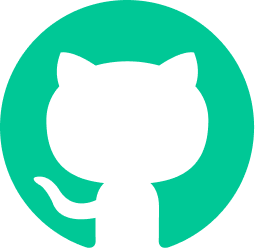
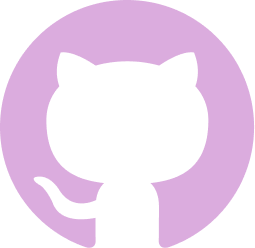
some style/colour changes

diff --git a/index.html b/index.html
@@ -37,6 +37,38 @@
 				</div>
 			</div>
 			<div class="main" id="top">
+				<div class="float-shape" id="fs-1">
+					<svg
+						xmlns="http://www.w3.org/2000/svg"
+						xmlns:xlink="http://www.w3.org/1999/xlink"
+						id="visual"
+						version="1.1"
+						viewBox="13.83 23.48 172.33 153.04"
+					>
+						<g transform="translate(98.9229104532285 98.80251492492093)">
+							<path
+								id="shape-5"
+								d="M35.8 -61.1C45.9 -56.1 53.2 -45.6 62 -34.4C70.7 -23.3 80.9 -11.7 85.1 2.4C89.2 16.5 87.5 33 79.3 45.1C71.2 57.2 56.6 65 42.3 70.6C28 76.2 14 79.6 1.8 76.6C-10.5 73.5 -21 64 -35.4 58.5C-49.9 53 -68.2 51.5 -77.5 42.4C-86.7 33.3 -86.9 16.7 -81.5 3.1C-76 -10.4 -65.1 -20.8 -58.8 -35.1C-52.6 -49.4 -51 -67.6 -42 -73.2C-33 -78.8 -16.5 -71.9 -1.8 -68.7C12.8 -65.6 25.7 -66.1 35.8 -61.1"
+							></path>
+						</g>
+					</svg>
+				</div>
+				<div onclick="toggleColour()" class="float-shape" id="fs-2">
+					<svg
+						xmlns="http://www.w3.org/2000/svg"
+						xmlns:xlink="http://www.w3.org/1999/xlink"
+						id="visual"
+						version="1.1"
+						viewBox="19.05 20.94 161.89 158.12"
+					>
+						<g transform="translate(107.82649031225117 110.21635652361721)">
+							<path
+								id="shape-3"
+								d="M44.4 -79.6C55.8 -70.3 62.1 -54.9 66.7 -40.6C71.3 -26.3 74.1 -13.2 72.8 -0.8C71.5 11.7 66.1 23.3 58.5 32.4C50.8 41.4 41 47.8 30.9 54.1C20.8 60.4 10.4 66.7 -1 68.4C-12.3 70 -24.7 67.1 -38.1 62.6C-51.5 58.2 -66 52.4 -75 41.7C-84 31 -87.5 15.5 -88.5 -0.6C-89.5 -16.7 -88.1 -33.3 -78.2 -42.6C-68.4 -51.8 -50.2 -53.6 -35.8 -61.1C-21.3 -68.6 -10.7 -81.8 2.9 -86.9C16.5 -91.9 33 -88.8 44.4 -79.6"
+							></path>
+						</g>
+					</svg>
+				</div>
 				<div class="intro">
 					<div class="display-container">
 						<svg
@@ -64,12 +96,11 @@
 					<div class="intro-text">
 						<h1>Hi there!</h1>
 						<p>
-							I'm Rosie, a web developer<br />based in Bristol, UK.<br /><br />
-							Find out more about me <a href="./about.html">here</a>, <br />or
-
+							I'm Rosie, a web developer<br />based in Bristol, UK. <br /><br />
 							<a href="#project-1"
-								><button class="primary-btn">check out my work</button></a
-							>
+								><button class="primary-btn">check out my work <span id="arrow">➜</span></button></a
+							><br /><h4>or find
+							out more about me <a href="./about.html">here</a>. </h4>
 						</p>
 					</div>
 				</div>
@@ -193,5 +224,6 @@
 				</div>
 			</div>
 		</body>
+		<footer></footer>
 	</html>
 </DOCTYPE!>

diff --git a/styles.css b/styles.css
@@ -3,15 +3,15 @@
 :root {
 	--orange: #fc841c;
 	--violet: #7061f0;
-	--pink: #ff007b;
-	--lilac: #dbacde;
+	--pink: #ff8dbc;
+	--lilac: #d7acde;
 	--palelilac: #f9dbf7;
 	--green: #00c896;
 	--yellow: #f3cf31;
 	--white: #fff6f6;
-	--navy: #413a7e;
+	--navy: #442c51;
+	--grey: #2a242e;
 }
-
 html {
 	scroll-behavior: smooth;
 }
@@ -30,16 +30,16 @@ body {
 }
 
 h1 {
-	color: var(--pink);
+	color: var(--orange);
 	font-weight: 600;
 	font-size: 3.5rem;
 	margin: 0;
 }
 
 h2 {
-	color: var(--violet);
+	color: var(--green);
 	font-weight: 600;
-	font-size: 3rem;
+	font-size: 2.75rem;
 	margin: 0;
 }
 
@@ -49,6 +49,15 @@ h3 {
 	font-size: 2rem;
 	margin: 0;
 }
+
+h4 {
+	color: var(--navy);
+	font-weight: 400;
+	font-size: 1.4rem;
+	margin: 0;
+	line-height: 1.5;
+}
+
 
 p {
 	color: var(--navy);
@@ -75,8 +84,15 @@ a {
 	font-weight: 600;
 	font-size: 1.8rem;
 	color: var(--white);
-	padding: 0.5vh 1vw;
+	padding: 1vh 1.5vw 1vh 1.5vw;
 	margin: 1vh 0;
+}
+
+#arrow {
+	writing-mode: vertical-rl;
+	text-orientation: sideways-right;
+	padding-top: 0.5vh;
+	font-size: 1.4rem;
 }
 
 .secondary-btn {
@@ -108,12 +124,15 @@ a {
 	width: 100vw;
 	position: fixed;
 	background-color: var(--white);
+	left: 0;
 	top: 0;
+	z-index: 1;
 }
 
 .nav-title {
 	min-width: 175px;
 	text-decoration: none;
+	margin-left: 1vw;
 }
 
 .nav-links {
@@ -170,7 +189,7 @@ a {
 	-webkit-filter: grayscale(100%);
 	-moz-filter: grayscale(100%);
 	-ms-filter: grayscale(100%);
-	padding-left: 3vw;
+	padding-left: 4vw;
 }
 
 /* project section containers */
@@ -229,7 +248,7 @@ a {
 }
 
 #shape-4 {
-	fill: var(--orange);
+	fill: var(--pink);
 }
 
 .project-img {
@@ -283,18 +302,38 @@ a {
 }
 
 /* other shapes */
+.float-shape {
+	width: 15vw;
+	position: absolute;
+
+}
+
+#fs-1 {
+	top: 175%;
+	left: -8%;
+}
+#fs-2 {
+	top: 275%;
+	right: 0%;
+}
+#fs-3 {
+	top: 170%;
+	left: 40%;
+}
+#fs-4 {
+	top: 170%;
+	left: 20%;
+}
+
 #shape-5 {
 	fill: var(--pink);
 }
-
 #shape-6 {
 	fill: var(--green);
 }
-
 #shape-7 {
 	fill: var(--yellow);
 }
-
 #shape-8 {
 	fill: var(--palelilac);
 }

diff --git a/index.js b/index.js
@@ -5,3 +5,10 @@
 //     var randomColor = colors[Math.floor(Math.random() * colors.length)];
 //     root.style.setProperty('--color', 'var(' + randomColor + ')');
 // }
+
+function toggleColour () {
+    document.querySelector('body').style.backgroundColor = 'var(--grey)';
+    document.querySelector('.navbar').style.backgroundColor = 'var(--grey)';
+    document.querySelector('p').style.color = 'var(--white)';
+    document.querySelector('a').style.color = 'var(--white)';
+}
